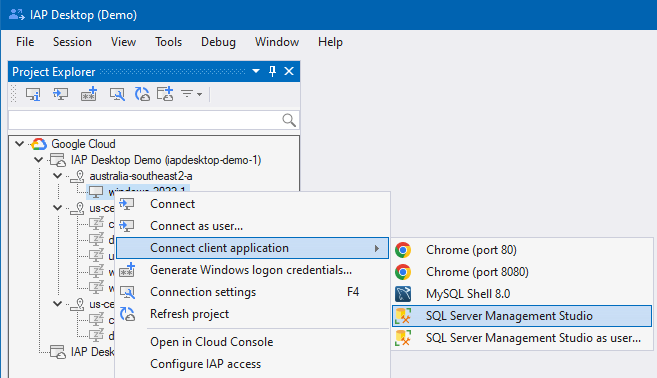
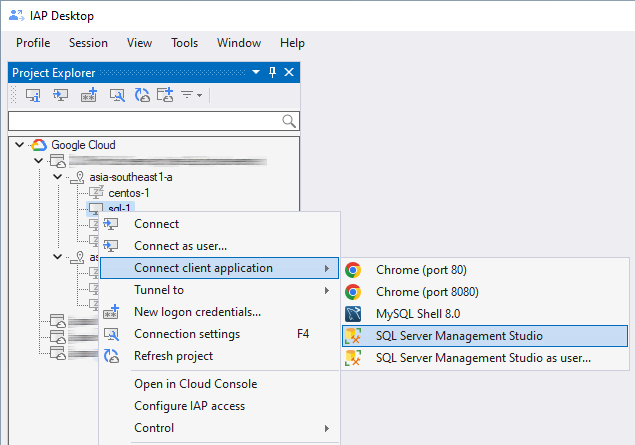
b/322207782 Add page for accessing server applications

diff --git a/doc/site/sources/docs/stylesheets/extra.css b/doc/site/sources/docs/stylesheets/extra.css
@@ -97,7 +97,7 @@ article li {
 
 .tabbed-content {
     background-color: var(--md-admonition-bg-color);
-    border: 0.05rem solid 0x66666;
+    border: 0.075rem solid lightgray;
     border-radius: 0.2rem;
     box-shadow: var(--md-shadow-z1);
     padding: 0.2rem;

diff --git a/doc/site/sources/docs/connect-sqlserver.md b/doc/site/sources/docs/connect-sqlserver.md
@@ -1,3 +1,5 @@
+# Access SQL Server
+
 ???+ info "Required roles"
 
     To follow the steps in this guide, you need the following roles:
@@ -15,27 +17,97 @@
     *   You downloaded and installed [SQL Server Management Studio (SSMS) :octicons-link-external-16:](https://learn.microsoft.com/en-us/sql/ssms/download-sql-server-management-studio-ssms) on your computer.
     *   You [created a firewall rule](setup-iap.md) that allows IAP to connect to port <code>1433</code> of your SQL Server VM.
 
-To use SQL Server Management Studio and connect to SQL Server, do the following:
+You can use IAP Desktop to access SQL Server in two ways:
 
-1.  In the **Project Explorer** tool window, right-click your SQL Server VM and select **Connect client application > SQL Server Management Studio**:
+1.  You can let IAP Desktop launch and [connect SQL Server Management Studio](#connect-sql-server-management-studio)
+    (SSMS) for you. IAP Desktop automatically establishes an
+    [IAP TCP forwarding tunnel :octicons-link-external-16:](https://cloud.google.com/iap/docs/using-tcp-forwarding)
+    and keeps the tunnel open until you close SSMS.
+
+1.  You can let IAP Desktop [open a tunnel](#open-a-tunnel). You can then use any tool to
+    connect to that tunnel and the tunnel remains open until you close IAP Desktop.
+
+
+## Connect SQL Server Management Studio
+
+The steps to let IAP Desktop launch and connect SQL Server Management Studio (SSMS) differ depending
+on how you want to authenticate to SQL Server:
+
+=== "Windows authentication"
+
+    To access SQL Server and authenticate using 
+    [Windows authentication :octicons-link-external-16:](https://learn.microsoft.com/en-us/sql/relational-databases/security/choose-an-authentication-mode#connecting-through-windows-authentication), 
+    do the following:
+
+    1.  In the **Project Explorer** tool window, right-click your SQL Server VM and select 
+        **Connect client application > SQL Server Management Studio**:
+      
+        ![Context menu](images/Connecting-SQLServer.png){ width="400" }
     
-    ![Context menu](images/Connecting-SQLServer.png)
+    1.  IAP Desktop now creates an [IAP TCP forwarding tunnel :octicons-link-external-16:](https://cloud.google.com/iap/docs/using-tcp-forwarding) and
+        opens SQL Server Management Studio. 
+        
+        If your connection settings contain Windows credentials, SQL Server Management Studio automatically 
+        authenticates you to SQL Server using Windows authentication.
+        
+        If you haven't configured Windows credentials yet, you can enter credentials manually:
+        
+        ![SSH Terminal](images/Connecting-SQLServer-Credentials.png){ width="400" }
+        
+        ???+ Note
+        
+            You can use Windows authentication even if your local computer isn't domain-joined, or
+            joined to a different Active Directory domain than the SQL Server VM.
+
+        IAP Desktop now launches SSMS and connects it to the VM:
+
+    1.  You can now use SSMS to interact with SQL Server:
+
+        ![SSMS](images/access-sqlserver-ssms.png)
+
+=== "SQL authentication"
+
+    To access SQL Server and authenticate using SQL authentication, do the following:
+
+    1.  In the **Project Explorer** tool window, right-click your SQL Server VM and select
+        **Connection settings**.
     
+    1.  In the **Connection settings** window, set **SQL Server > Windows authentication** to **disabled**.
     
-1.  IAP Desktop now creates an [IAP TCP forwarding tunnel :octicons-link-external-16:](https://cloud.google.com/iap/docs/using-tcp-forwarding) and
-    opens SQL Server Management Studio. 
+    1.  In the **Project Explorer** tool window, right-click your SQL Server VM and select 
+        **Connect client application > SQL Server Management Studio**:
+      
+        ![Context menu](images/Connecting-SQLServer.png){ width="400" }
     
-    If your connection settings contain Windows credentials, SQL Server Management Studio automatically 
-    authenticates you to SQL Server [using Windows authentication :octicons-link-external-16:](https://learn.microsoft.com/en-us/sql/relational-databases/security/choose-an-authentication-mode#connecting-through-windows-authentication).
+    1.  Enter your SQL Server username and click **OK**.
+
+        IAP Desktop now launches SSMS. If this is the first time you're connecting to this VM,
+        you might see an error message indicating that the login failed because you haven't 
+        provided a password. Dismiss the error message and use the SQL Server login dialog 
+        to complete authentication.
     
-    If you haven't configured Windows credentials yet, you can enter credentials manually:
-    
-    ![SSH Terminal](images/Connecting-SQLServer-Credentials.png)
-    
-    ???+ Note
-    
-        You can use Windows authentication even if your local computer isn't domain-joined, or
-        joined to a different Active Directory domain than the SQL Server VM.
+## Open a tunnel
+
+To let IAP Desktop open a tunnel to SQL Server, do the following:
+
+1.  In the **Project Explorer** tool window, right-click your SQL Server VM and select 
+    **Tunnel to > SQL Server**.
+
+    ![Open a tunnel](images/access-sqlserver-tunnel.png){ width="400" }
+
+    A notification appears:
+
+    ![Baloon notification](images/access-server-baloon.png){ width="300" }
+
+1.  Use any tool to connect to the tunnel using the port number indicated in the notification.
+
+
+    !!! note
+
+        When you open a tunnel to the same VM again in the future, IAP Desktop
+        will use the same port number unless it's in use by a different application.
+
+To view all active tunnels and their port numbers, select **View > Active IAP tunnels** in the main menu.
 
 ## Customize connection settings
 
@@ -50,12 +122,8 @@ To customize the connection settings, you can use the **Connection Settings** to
     If you specify a setting
     that deviates from the default, it is shown in bold typeface.
 
-Instead of customizing settings for each VM instance individually, you can also specify settings that apply to
-an entire zone or projects:
-
-1.  In the **Project Explorer** tool window, right-click a zone or project and select **Connection Settings**.
-1.  In the **Connection Settings** window, customize settings as needed. The settings apply to all VM instances
-    in the respective zone or project, unless explicitly overridden.
+Instead of customizing settings for each VM instance individually, you can also specify settings that 
+[apply to an entire zone or project](toolwindow-connection-settings.md).
 
 ## What's next
 

diff --git a/doc/site/sources/docs/connect-other-applications.md b/doc/site/sources/docs/connect-other-applications.md
@@ -1,0 +1,126 @@
+# Access server applications
+
+???+ info "Required roles"
+
+    To follow the steps in this guide, you need the following roles:
+    
+    *   [ ] [Compute Viewer :octicons-link-external-16:](https://cloud.google.com/compute/docs/access/iam) on the project.
+    *   [ ] [IAP-Secured Tunnel User :octicons-link-external-16:](https://cloud.google.com/iap/docs/managing-access#roles) on
+        the project or VM.
+     
+???+ success "Prerequisites"
+
+    To follow the steps in this guide, make sure that you meet the following prerequisites:
+
+    *   Your server application runs on a Compute Engine VM. IAP Desktop currently can't connect to Cloud SQL 
+        or applications hosted on Kubernetes Engine.
+    *   You [created a firewall rule](setup-iap.md) that allows IAP to connect to the port used by the server application.
+          
+
+You can use IAP Desktop to access server applications in two ways:
+
+1.  You can let IAP Desktop launch and [connect a client application](#connect-a-client-application)
+    for you. IAP Desktop automatically establishes an
+    [IAP TCP forwarding tunnel :octicons-link-external-16:](https://cloud.google.com/iap/docs/using-tcp-forwarding)
+    and keeps the tunnel open until you close the client application.
+
+    This is the most convenient option, but it only works for client applications that allow
+    connection details (server name, port number) to be passed as a command line parameter.
+
+1.  You can let IAP Desktop [open a tunnel](#open-a-tunnel). You can then use any tool to
+    connect to that tunnel and the tunnel remains open until you close IAP Desktop.
+
+    This option is slightly less convenient, but works with most client applications.
+
+## Connect a client application
+
+To launch and connect a client application automatically, do the following:
+
+=== "MySQL Shell"
+
+    1.  In the **Project Explorer** tool window, right-click your database VM and select 
+        **Connect client application > MySQL Shell**.
+       
+        ![Connect MySQL shell](images/access-server-mysql.png){ width="400" }
+       
+        !!! note
+       
+            If you don't see the menu entry, then IAP Desktop wasn't able to
+            find a supported version of MySQL Shell on your computer.
+
+    1.  IAP Desktop now creates an [IAP TCP forwarding tunnel :octicons-link-external-16:](https://cloud.google.com/iap/docs/using-tcp-forwarding) and
+        launches MySQL shell.
+
+=== "Chrome"
+
+
+    1.  In the **Project Explorer** tool window, right-click your web server VM and select 
+        **Connect client application > Chrome (port 80)** or **Chrome (port 8080)**.
+
+    1.  IAP Desktop now creates an [IAP TCP forwarding tunnel :octicons-link-external-16:](https://cloud.google.com/iap/docs/using-tcp-forwarding) and
+        launches an instance of Chrome in guest mode.
+    
+=== "Custom"
+
+    You can register your own client applications by 
+    [creating an IAP Application Protocol Configuration (IAPC)](client-application-configuration.md).
+
+
+## Open a tunnel
+
+You can let IAP Desktop open a tunnel and connect to tha tunnel by doing the following:
+
+=== "MySQL Workbench"
+
+    1.  In the **Project Explorer** tool window, right-click your database VM and select 
+        **Tunnel to > MySQL/MariaDB**.
+
+        ![Open tunnel](images/access-server-mysql-tunnel.png){ width="400" }
+
+        A notification appears:
+
+        ![Baloon notification](images/access-server-baloon.png){ width="300" }
+
+    1.  Launch MySQL Workbench.
+    1.  In MySQL Workbench, go to **Database > Connect to database**.
+    1.  In the **Connect to database** dialog, configure the following:
+
+        *   **Hostname**: `127.0.0.1`
+        *   **Port**: Enter the port number indicated in the notification.
+
+    1.  Click **OK**.
+
+
+=== "pgAdmin"
+
+    1.  In the **Project Explorer** tool window, right-click your database VM and select 
+        **Tunnel to > PostgreSQL**.
+
+        A notification appears:
+
+        ![Baloon notification](images/access-server-baloon.png){ width="300" }
+
+    1.  Launch pgAdmin.
+    1.  Click **Add new server**.
+    1.  In the **Register server** dialog, enter a name for the server.
+    1.  Switch to the **Connection** tab and configure the following:
+
+        *   **Host name/address**: `127.0.0.1`
+        *   **Port**: Enter the port number indicated in the notification.
+
+    1.  Click **Save**.
+
+=== "Custom"
+
+    You can register your own client applications by 
+    [creating an IAP Application Protocol Configuration (IAPC)](client-application-configuration.md).
+
+
+To view all active tunnels and their port numbers, select **View > Active IAP tunnels** in the main menu.
+
+
+!!! note
+
+    When you open a tunnel to the same VM again in the future, IAP Desktop
+    will use the same port number unless it's in use by a different application.
+

diff --git a/doc/site/sources/docs/client-application-configuration.md b/doc/site/sources/docs/client-application-configuration.md
@@ -4,8 +4,8 @@ You can register custom client applications by creating an _IAP Application Prot
 IAPC file defines the following:
 
 * The name of the client application
-* The executable to launch
 * The VM instances that the client application applies to
+* The executable to launch (optional)
 
 IAPC are JSON files that use the `.iapc` file extension. During startup, IAP Desktop loads all
 IAPC files in the `%appdata%\Google\IAP Desktop\Config` folder. 
@@ -65,7 +65,7 @@ The following code snippet shows an example file for the MySQL shell:
             </ul>
             Note: Backslashes must be escaped with another backslash (<code>\\</code>).
         </td>
-        <td>Required</td>
+        <td>Optional</td>
     <tr>
     <tr>
         <td><code>arguments</code></td>
